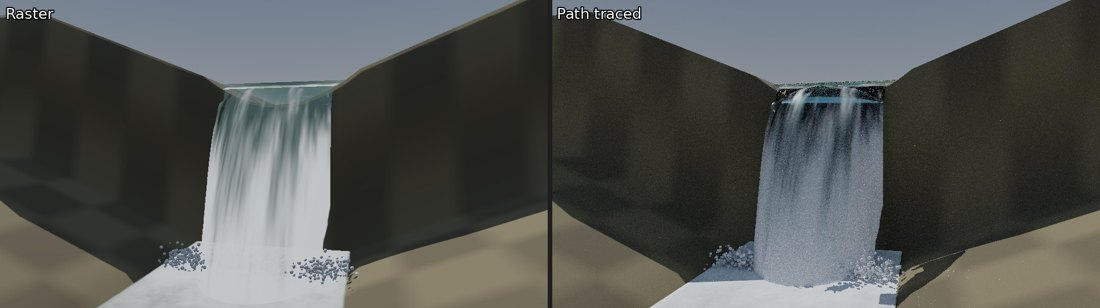
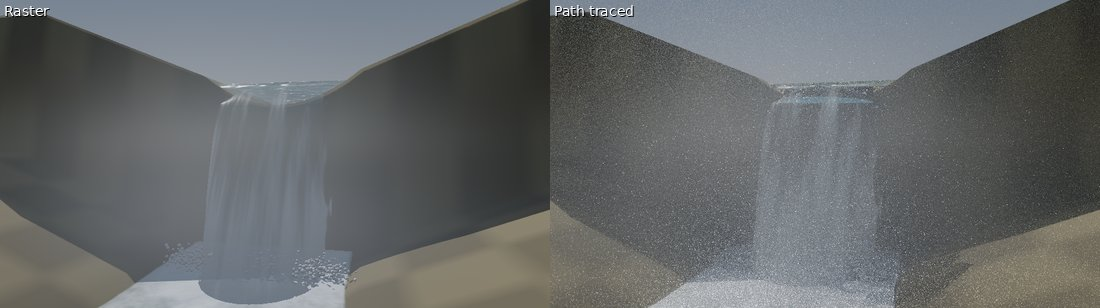
README: sea foam lighting, re-rendered waterfall
Claude-Session: https://claude.ai/code/session_019a7Xd2PZ5gvYQ3NZ7og5rU

diff --git a/README.md b/README.md
@@ -99,7 +99,7 @@ Each feature that changes the look or the cost can be turned off with the settin
 - **Path-traced ocean** (`PhysXWaterSurface3D`: `pathtraced_absorption`, `pathtraced_scattering`, `pathtraced_roughness`): waves refract, tint and scatter, with caustics on the seabed.
 - **Ocean swell** (`wave_cascades`): up to four wave layers give long swell under the chop without visible tiling, whitecaps where they add up, on a shallow-water (TMA) spectrum; set `depth` to the real depth for open sea (the 3 m default damps long waves).
 - **Measured wave spreading** (`wave_spreading`, `swell`): Donelan-Banner spreading as Horvath (2015) fits it, with swell; slopes at 14 m/s match Cox and Munk's measurements.
-- **Raster reflections** (`raster_reflections` on PhysXWaterSurface3D and PhysXRiver3D): raster sea and rivers reflect the sky and the sun's glitter by the exact Fresnel term, matching the path tracer; raster waterfalls and river white water take the scene's shadows and sky light.
+- **Raster reflections** (`raster_reflections` on PhysXWaterSurface3D and PhysXRiver3D): raster sea and rivers reflect the sky and the sun's glitter by the exact Fresnel term, matching the path tracer; raster waterfalls, white water, sea foam and wet sand take the scene's shadows, sky light and cloud shadows.
 - **Whitecaps by wind speed** (`whitecap_auto`, on; `whitecap_cover_scale`): whitecap cover follows the wind speed as measured at sea (Monahan 1980), whatever the wave settings.
 - **Finer water mesh up close** (`mesh_detail`).
 - **Shore waves** (`shore_waves`): swell turns with the seabed, grows in the shallows, breaks and runs up the sand (Stockdon run-up).
@@ -204,6 +204,10 @@ Each feature that changes the look or the cost can be turned off with the settin
 ![A raster waterfall in a shaded gorge, before and lit by the scene](docs/media/waterfall-lighting.jpg)
 
 *Waterfall lighting: the raster fall no longer glows white in the shade of the gorge.*
+
+![Shore foam in shade, raster, before and lit by the scene](docs/media/sea-foam-lighting.jpg)
+
+*Foam lighting: shore foam in shade is no longer bright white.*
 
 ![Under water near crates, raster vs path traced](docs/media/underwater.jpg)
 

diff --git a/changelog.d/readme-sea-foam-lighting.md b/changelog.d/readme-sea-foam-lighting.md
@@ -1,0 +1,3 @@
+### Changed
+
+- README: sea foam lit by the scene; re-rendered waterfall pair.
